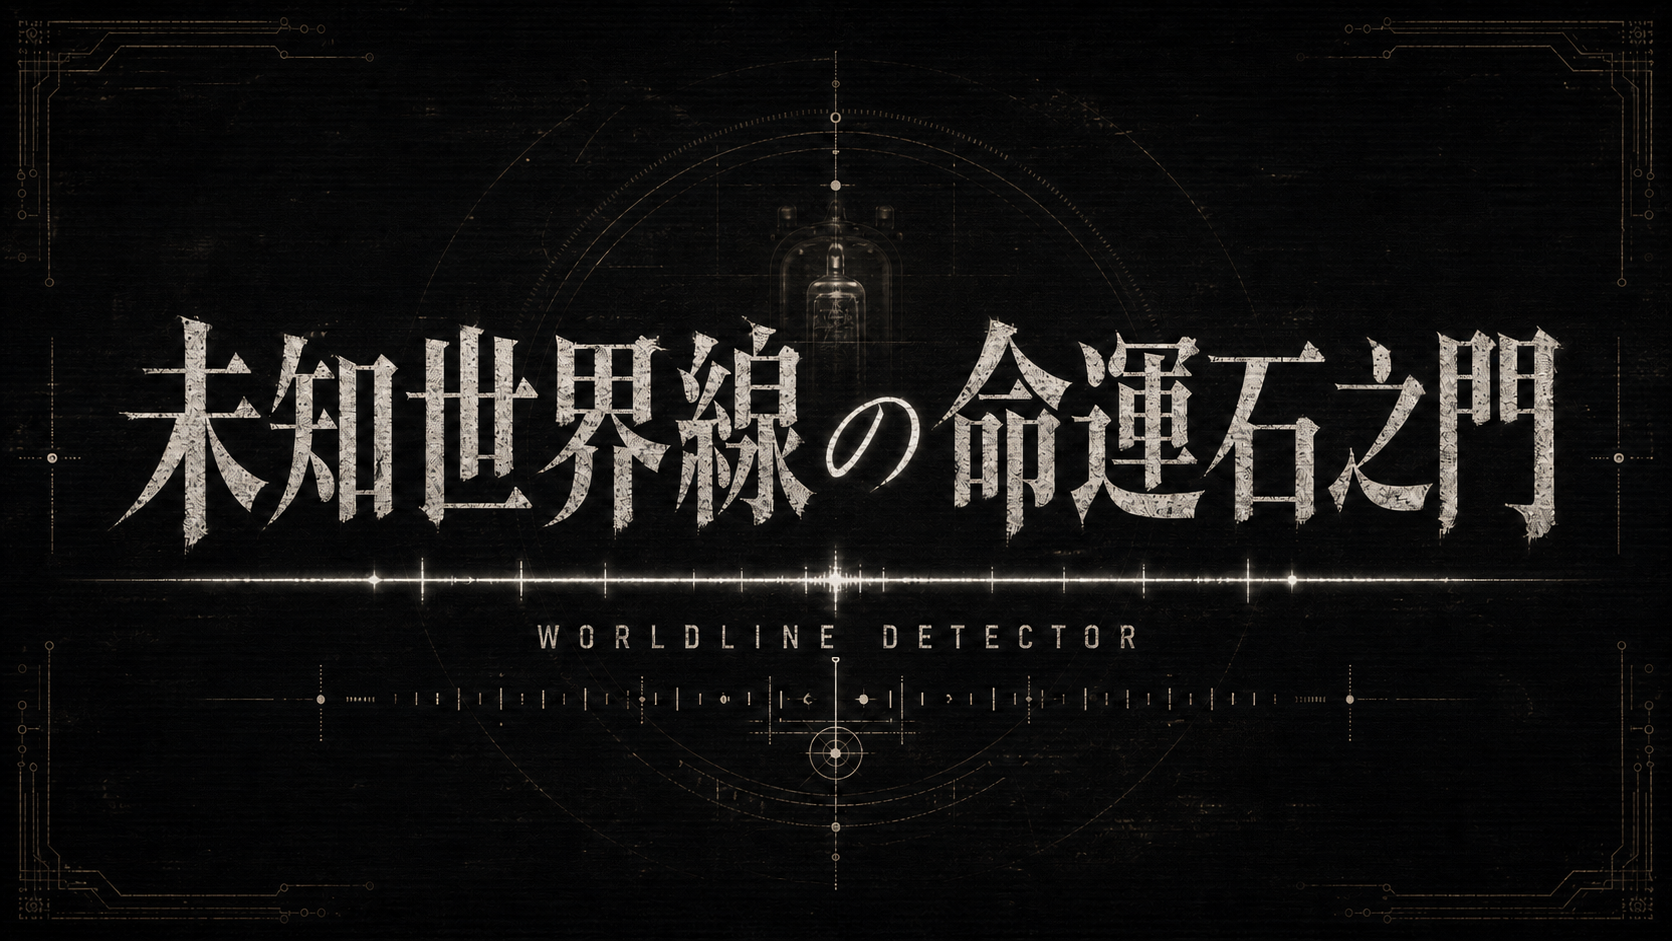
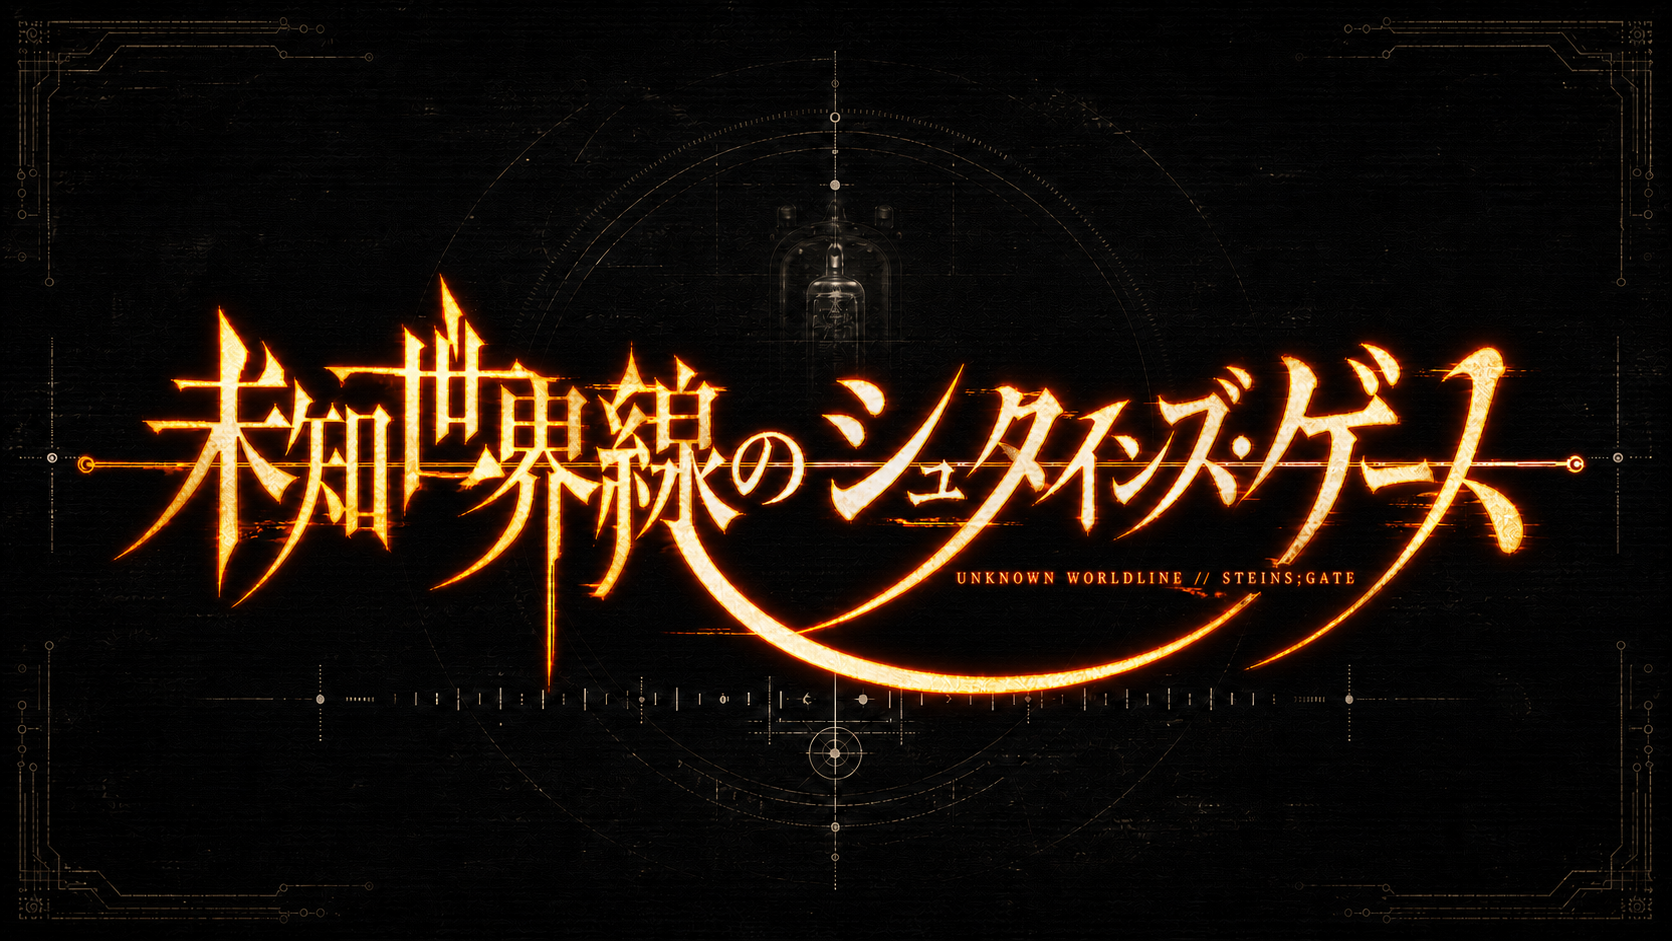
Replace hero title with Japanese wordmark

Changed region(s): [[0.0311, 0.2774, 0.9641, 0.8321], [0.9641, 0.0308, 0.9952, 0.1849], [0.9641, 0.8013, 0.9952, 0.9245]]

diff --git a/app/globals.css b/app/globals.css
@@ -435,73 +435,25 @@ h1 {
 }
 
 .destiny-heading {
-  width: min(100%, 520px);
-  margin: -4px 0 2px;
+  width: min(40vw, 640px);
+  max-width: none;
+  position: relative;
+  z-index: 4;
+  margin: -18px 0 5px -12px;
   font-size: 0;
   line-height: 0;
 }
 
-.destiny-title {
+.destiny-title-art {
   width: 100%;
   height: auto;
   display: block;
-  overflow: visible;
+  mix-blend-mode: screen;
   filter:
-    drop-shadow(0 2px 0 rgba(0, 0, 0, .92))
-    drop-shadow(0 0 1px rgba(255, 255, 255, .32));
-}
-
-.destiny-title-sigil {
+    saturate(.92)
+    drop-shadow(0 0 10px rgba(255, 93, 18, .12));
   transform-origin: center;
   animation: title-sigil-in .72s cubic-bezier(.17,.82,.29,1) both;
-}
-
-.destiny-title-line {
-  fill: #f3f1e9;
-  stroke: #f3f1e9;
-  stroke-width: 1.15px;
-  paint-order: stroke fill;
-  font-family: "Shippori Mincho", "Yu Mincho", "Hiragino Mincho ProN", serif;
-  font-size: 128px;
-  font-weight: 800;
-  letter-spacing: 0;
-}
-
-.destiny-title-no {
-  fill: #fffef9;
-  stroke: #fffef9;
-  stroke-width: .55px;
-  paint-order: stroke fill;
-  font-family: "Yuji Syuku", "YuKyokasho", "Hiragino Mincho ProN", serif;
-  font-size: 154px;
-  font-weight: 400;
-  transform: rotate(-9deg) scaleX(1.08);
-  transform-box: fill-box;
-  transform-origin: center;
-}
-
-.destiny-title-ray,
-.destiny-title-slash,
-.destiny-title-flare {
-  fill: none;
-  stroke: #eeece5;
-  stroke-width: 3px;
-  stroke-linecap: round;
-  stroke-linejoin: round;
-}
-
-.destiny-title-ray-faint { opacity: .43; stroke-width: 1.2px; }
-.destiny-title-slash { opacity: .72; stroke-width: 4px; }
-.destiny-title-flare { opacity: .62; stroke-width: 2.5px; }
-.destiny-title-node { fill: #f5f3ed; stroke: #777670; stroke-width: 2px; }
-.destiny-title-node-inner { fill: #32322f; }
-
-.destiny-title-roman {
-  fill: #92918b;
-  font-family: "Courier New", monospace;
-  font-size: 15px;
-  font-weight: 700;
-  letter-spacing: .22em;
 }
 
 .destiny-title-motto {
@@ -966,6 +918,7 @@ h1 {
   }
   .device-column { grid-row: 1; }
   .intro-panel { grid-row: 2; min-height: auto; max-width: 660px; }
+  .destiny-heading { width: min(100%, 640px); }
   h1 br { display: none; }
   .worldline-heading br { display: block; }
   .fortune-result { width: min(590px, 100%); }
@@ -1002,7 +955,7 @@ h1 {
   .intro-panel { width: 100%; min-height: 380px; padding-top: 40px; }
   .kicker { margin-bottom: 15px; font-size: 10px; }
   h1 { font-size: 42px; line-height: 1.24; }
-  .destiny-heading { width: min(100%, 470px); margin-top: -10px; }
+  .destiny-heading { width: min(100%, 520px); margin: -10px 0 4px -7px; }
   .destiny-title-motto { max-width: 470px; font-size: 12px; }
   .time-readout { margin-top: 22px; font-size: 60px; }
   .date-line { font-size: 13px; }

diff --git a/app/page.tsx b/app/page.tsx
@@ -1,6 +1,7 @@
 "use client";
 
 import { useCallback, useEffect, useMemo, useRef, useState } from "react";
+import Image from "next/image";
 import { DivergenceScene } from "./components/DivergenceScene";
 
 type Mode = "time" | "worldline";
@@ -12,7 +13,7 @@ type Fortune = {
   copy: string;
 };
 
-const DESTINY_GATE_TITLE = "未知世界線の命運石之門";
+const DESTINY_GATE_TITLE = "未知世界線のシュタインズ・ゲート";
 const STEINS_GATE_READING = "1.048596";
 const STEINS_GATE_VALUE = Number(STEINS_GATE_READING);
 
@@ -264,26 +265,16 @@ const FORTUNES: Record<Locale, Fortune[]> = {
 
 function DestinyGateTitle() {
   return (
-    <svg className="destiny-title" viewBox="0 0 1160 300" aria-hidden="true">
-      <defs>
-        <filter id="destiny-title-rough" x="-8%" y="-18%" width="116%" height="136%">
-          <feTurbulence baseFrequency=".014 .09" numOctaves="2" seed="19" result="noise" />
-          <feDisplacementMap in="SourceGraphic" in2="noise" scale=".9" xChannelSelector="R" yChannelSelector="B" />
-        </filter>
-      </defs>
-      <g className="destiny-title-sigil" filter="url(#destiny-title-rough)">
-        <path className="destiny-title-ray" d="M10 157 H1149" />
-        <path className="destiny-title-ray destiny-title-ray-faint" d="M83 170 H1084" />
-        <circle className="destiny-title-node" cx="17" cy="157" r="7" />
-        <circle className="destiny-title-node-inner" cx="17" cy="157" r="2.4" />
-        <path className="destiny-title-slash" d="M486 199 C514 179 528 133 542 79 M538 204 C572 181 586 134 597 87" />
-        <text className="destiny-title-line" x="28" y="180" textLength="455" lengthAdjust="spacingAndGlyphs">未知世界線</text>
-        <text className="destiny-title-no" x="548" y="190" textAnchor="middle">の</text>
-        <text className="destiny-title-line" x="614" y="180" textLength="520" lengthAdjust="spacingAndGlyphs">命運石之門</text>
-        <path className="destiny-title-flare" d="M1046 190 C1090 178 1121 153 1142 117 M1066 205 C1103 199 1132 184 1151 164" />
-      </g>
-      <text className="destiny-title-roman" x="580" y="265" textAnchor="middle">UNKNOWN WORLDLINE // GATE OF DESTINY</text>
-    </svg>
+    <Image
+      className="destiny-title-art"
+      src="/unknown-worldline-steins-gate-wordmark.png"
+      width="2114"
+      height="744"
+      alt=""
+      aria-hidden="true"
+      priority
+      sizes="(max-width: 720px) calc(100vw - 28px), (max-width: 1120px) 640px, 40vw"
+    />
   );
 }
 

diff --git a/app/layout.tsx b/app/layout.tsx
@@ -4,10 +4,10 @@ import "./globals.css";
 
 export const metadata: Metadata = {
   metadataBase: new URL("https://divergence-meter.chemistrywilly310.chatgpt.site"),
-  title: "未知世界線の命運石之門｜世界線探測儀",
+  title: "未知世界線のシュタインズ・ゲート｜世界線探測儀",
   description: "以立體數字管觀測當地時間，並以 1.048596 為收束目標探測世界線運勢。",
   openGraph: {
-    title: "未知世界線の命運石之門",
+    title: "未知世界線のシュタインズ・ゲート",
     description: "以 1.048596 為收束目標，觀測此刻的世界線。",
     type: "website",
     locale: "zh_TW",
@@ -15,12 +15,12 @@ export const metadata: Metadata = {
       url: "/og.png",
       width: 1672,
       height: 941,
-      alt: "未知世界線の命運石之門",
+      alt: "未知世界線のシュタインズ・ゲート",
     }],
   },
   twitter: {
     card: "summary_large_image",
-    title: "未知世界線の命運石之門",
+    title: "未知世界線のシュタインズ・ゲート",
     description: "以 1.048596 為收束目標，觀測此刻的世界線。",
     images: ["/og.png"],
   },
